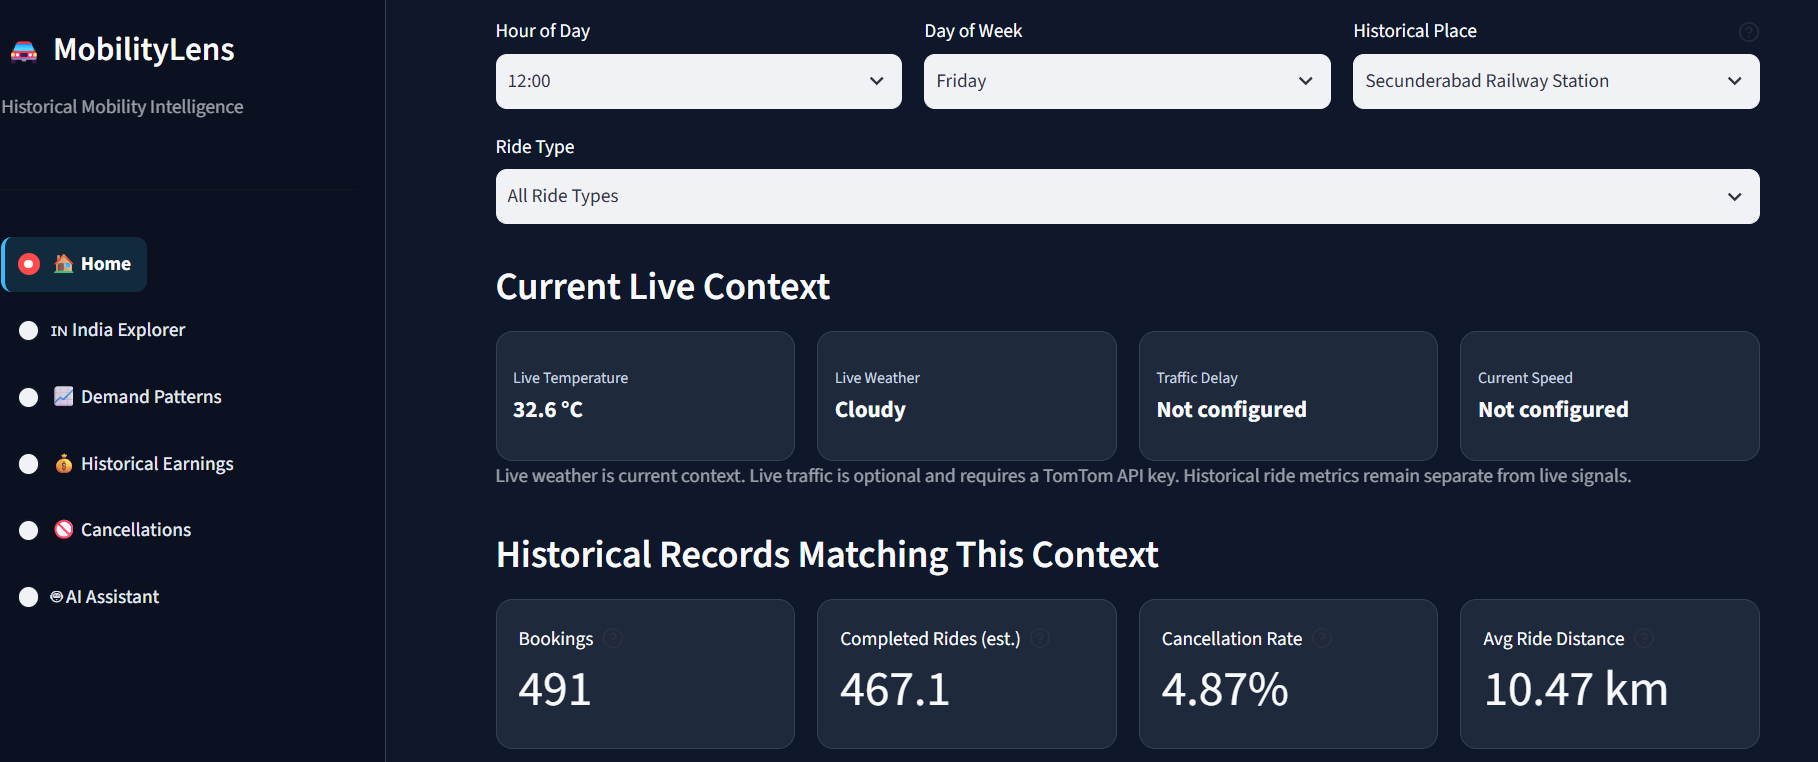
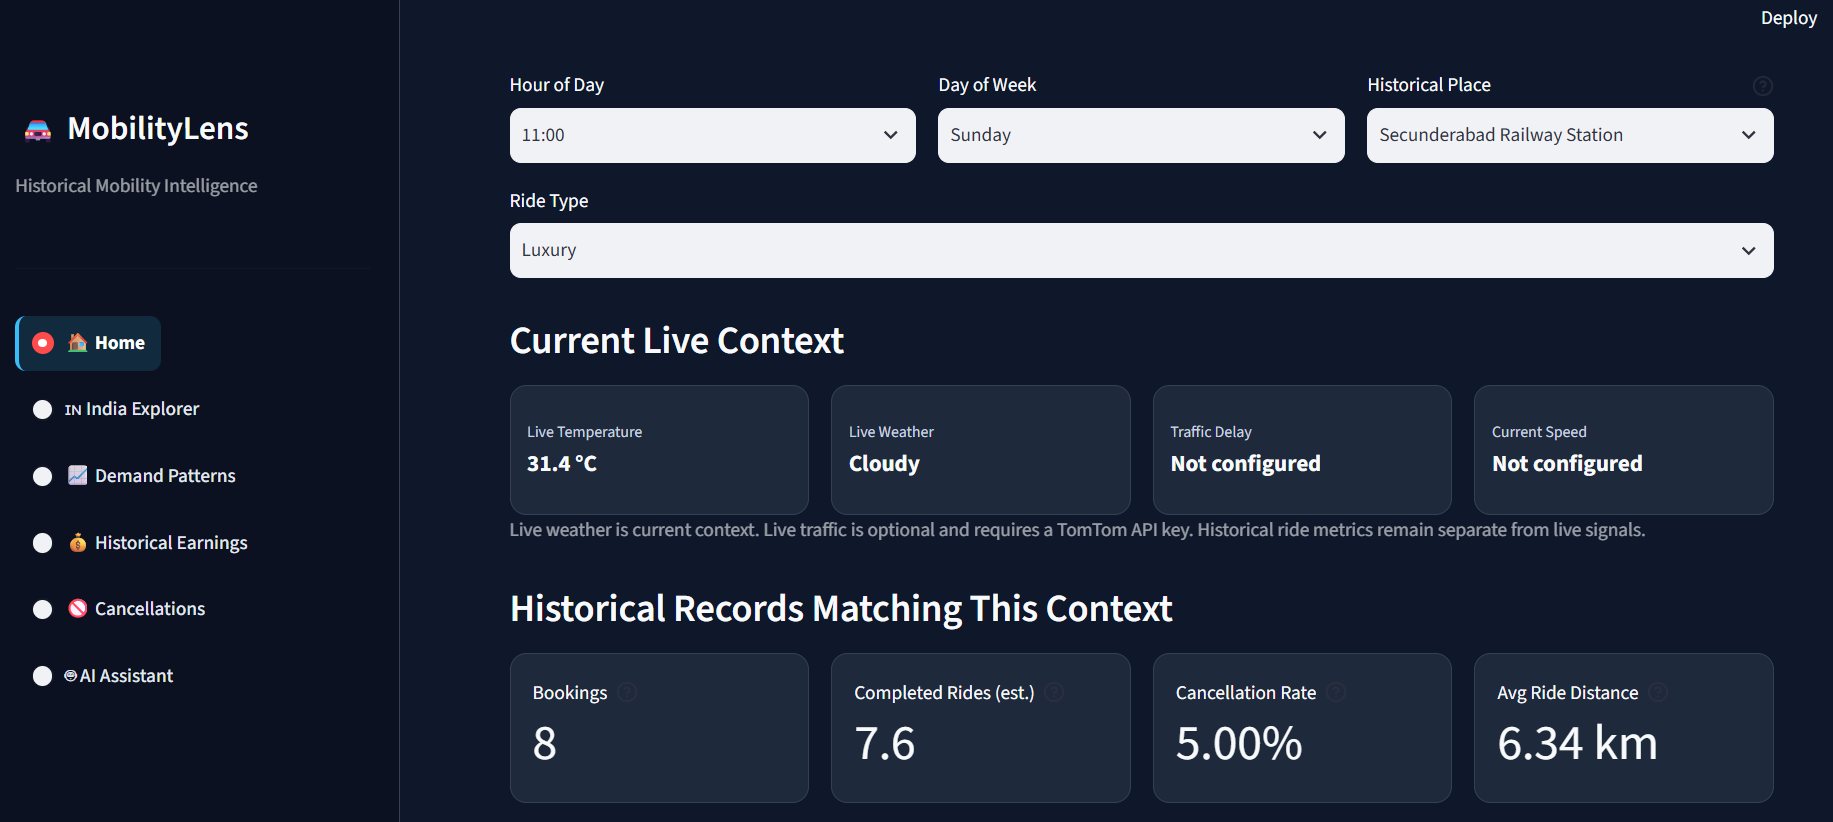
Fix historical weekday filtering and update home screenshot

diff --git a/main.py b/main.py
@@ -201,6 +201,46 @@ DAYS = [
     "Sunday",
 ]
 
+
+def csv_day_of_week_code(day_name):
+    """Map UI weekday name to FairFare Day_of_Week (Monday=0)."""
+    if day_name is None or (
+        isinstance(day_name, float)
+        and pd.isna(day_name)
+    ):
+        return None
+
+    if isinstance(day_name, (int, float)):
+        value = int(day_name)
+
+        if 0 <= value <= 6:
+            return value
+
+        return None
+
+    value = str(day_name).strip()
+
+    if not value:
+        return None
+
+    lowered = value.lower()
+
+    for code, name in enumerate(DAYS):
+        if name.lower() == lowered:
+            return code
+
+    try:
+        code = int(float(value))
+
+        if 0 <= code <= 6:
+            return code
+
+    except (ValueError, TypeError):
+        pass
+
+    return None
+
+
 RIDE_TYPE_ORDER = [
     "Economy",
     "Premium",
@@ -1647,15 +1687,15 @@ def filter_zoned_data(
             == int(hour)
         ]
 
-    if day_name:
+    day_code = csv_day_of_week_code(day_name)
+
+    if day_code is not None:
         data = data[
-            data["Day_of_Week"]
-            .astype(str)
-            .str.strip()
-            .str.lower()
-            == str(day_name)
-            .strip()
-            .lower()
+            pd.to_numeric(
+                data["Day_of_Week"],
+                errors="coerce",
+            )
+            == day_code
         ]
 
     if (
@@ -1831,16 +1871,12 @@ def _build_historical_context_result(
         )
     )
 
-    demand_counts = (
-        data["Demand_Level"]
-        .astype(str)
-        .str.strip()
-        .value_counts()
-    )
-
-    total = max(
-        1,
-        len(data),
+    demand_breakdown = (
+        get_demand_level_breakdown(
+            data
+        ).to_dict(
+            orient="records"
+        )
     )
 
     return {
@@ -1904,32 +1940,7 @@ def _build_historical_context_result(
                 "Traffic_Delay"
             ].mean()
         ),
-        "demand_breakdown": [
-            {
-                "Demand Level": label,
-                "Records": int(
-                    demand_counts.get(
-                        label,
-                        0,
-                    )
-                ),
-                "Share": (
-                    float(
-                        demand_counts.get(
-                            label,
-                            0,
-                        )
-                    )
-                    / total
-                    * 100.0
-                ),
-            }
-            for label in [
-                "Low",
-                "Medium",
-                "High",
-            ]
-        ],
+        "demand_breakdown": demand_breakdown,
         "weather_mix": (
             data["Weather"]
             .value_counts()
@@ -2096,41 +2107,41 @@ def get_zone_context(
     # 1. EXACT PLACE + HOUR + WEEKDAY
     # ------------------------------------------------------------------
 
+    day_code = csv_day_of_week_code(day_name)
+
     if not zone_base.empty:
         exact_zone = zone_base[
-            (
-                zone_base["Hour_of_Day"]
-                == int(hour)
-            )
-            & (
-                zone_base[
-                    "Day_of_Week"
-                ]
-                .astype(str)
-                .str.strip()
-                .str.lower()
-                == str(day_name)
-                .strip()
-                .lower()
-            )
+            zone_base["Hour_of_Day"]
+            == int(hour)
         ].copy()
 
-        if not exact_zone.empty:
-            result = (
-                _build_historical_context_result(
-                    exact_zone,
-                    city,
-                    zone,
-                    hour,
-                    day_name,
-                    ride_type,
-                    "Exact: place + hour + day",
-                    "Zone-level historical records",
+        if day_code is not None:
+            exact_zone = exact_zone[
+                pd.to_numeric(
+                    exact_zone[
+                        "Day_of_Week"
+                    ],
+                    errors="coerce",
                 )
-            )
+                == day_code
+            ]
 
-            if result:
-                return result
+            if not exact_zone.empty:
+                result = (
+                    _build_historical_context_result(
+                        exact_zone,
+                        city,
+                        zone,
+                        hour,
+                        day_name,
+                        ride_type,
+                        "Exact: place + hour + day",
+                        "Zone-level historical records",
+                    )
+                )
+
+                if result:
+                    return result
 
         # --------------------------------------------------------------
         # 2. PLACE + HOUR
@@ -2202,39 +2213,37 @@ def get_zone_context(
     # ------------------------------------------------------------------
 
     exact_city = city_data[
-        (
-            city_data["Hour_of_Day"]
-            == int(hour)
-        )
-        & (
-            city_data[
-                "Day_of_Week"
-            ]
-            .astype(str)
-            .str.strip()
-            .str.lower()
-            == str(day_name)
-            .strip()
-            .lower()
-        )
+        city_data["Hour_of_Day"]
+        == int(hour)
     ].copy()
 
-    if not exact_city.empty:
-        result = (
-            _build_historical_context_result(
-                exact_city,
-                city,
-                zone,
-                hour,
-                day_name,
-                ride_type,
-                "City + hour + weekday",
-                "City-level historical fallback",
+    if day_code is not None:
+        exact_city = exact_city[
+            pd.to_numeric(
+                exact_city[
+                    "Day_of_Week"
+                ],
+                errors="coerce",
             )
-        )
+            == day_code
+        ]
 
-        if result:
-            return result
+        if not exact_city.empty:
+            result = (
+                _build_historical_context_result(
+                    exact_city,
+                    city,
+                    zone,
+                    hour,
+                    day_name,
+                    ride_type,
+                    "City + hour + weekday",
+                    "City-level historical fallback",
+                )
+            )
+
+            if result:
+                return result
 
     # ------------------------------------------------------------------
     # 5. CITY + HOUR
